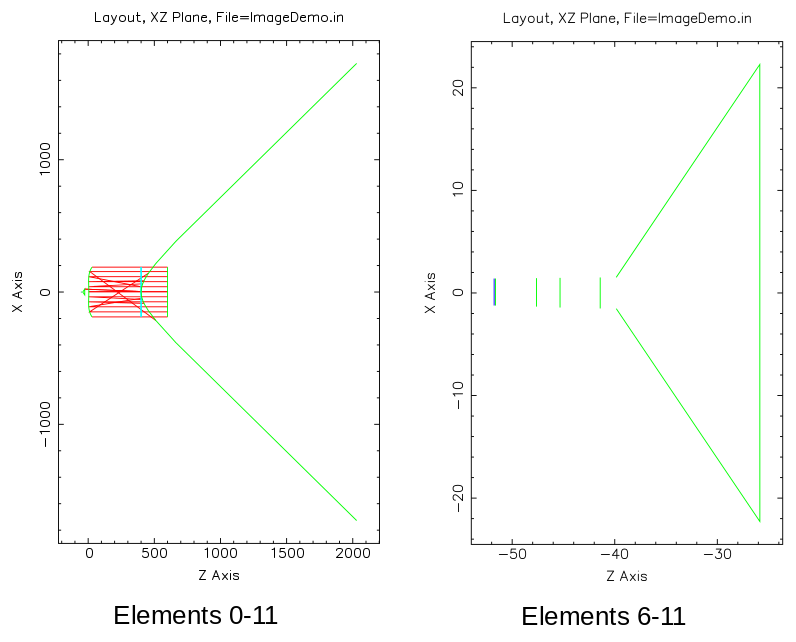
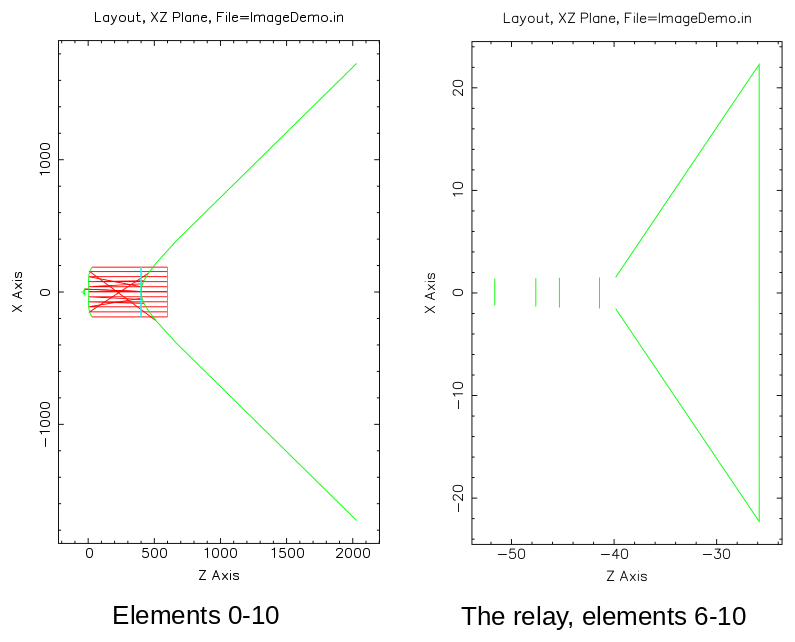
psiElt= kept as written when already unit to 64 ulp (the load-time re-unitize walked a 9e-17 component an ulp per SAVE generation on arm64: tSaveFixedPoint / test_save_fixed_point on CCMac's Mac gate; the OptBeamDir rule); manual: Dave's cover geometry (title high, the subtitle block low, Version 4.

diff --git a/docs/macos-manual/tools/regen_engine_figs.py b/docs/macos-manual/tools/regen_engine_figs.py
@@ -34,7 +34,7 @@ SPEC = {
                          "Focal plane spot diagram\n(primary mirror tilted 1e-4 radians)"]),
     6: ("fig06", [0, 1], ["Unaberrated (defocused)", "Aberrated OPD (coma)"]),
     10: ("fig10", [0, 1], ["Unaberrated (defocused)", "Aberrated (coma)"]),
-    31: ("fig31", [0, 1], ["Elements 0-11", "Elements 6-11"]),
+    31: ("fig31", [0, 1], ["Elements 0-10", "The relay, elements 6-10"]),
     33: ("fig33", [0], []), 34: ("fig33", [1], []),
     36: ("fig36", [0, 1], ["Exit pupil (element 4)", "Detector (element 5)"]),
     37: ("fig36", [2, 3], ["OBS=ALL", "OBS=NEGATIVE"]),
@@ -49,7 +49,7 @@ SPEC = {
     58: ("fig58", [2], []),
     60: ("fig60", [0, 1], ["Amplitude", "Phase"]),
     61: ("fig60", [2, 3], ["Real part", "Imaginary part"]),
-    62: ("fig60", [4], []), 63: ("fig60", [5], []), 64: ("fig60", [6], []),
+    62: ("fig47", [13], []), 63: ("fig60", [5], []), 64: ("fig60", [6], []),
 }
 FONT = "/usr/share/fonts/truetype/liberation/LiberationSans-Regular.ttf"
 

diff --git a/PLAN_CONSOLIDATION.md b/PLAN_CONSOLIDATION.md
@@ -103,6 +103,8 @@ carry the incidents).  They are the definition of done for every item below.
   (e) **DONE 2026-10-17 (TO, 42c7ade, gated at 72ea712) -- the ruling below was taken on the stale reading: TPR no longer reads `RayPosHist` at all; it prints the position CTRACE leaves at the end element (`TPR ray 63 at element 6: x y z`) on every deck, skips the slots RRAY leaves empty (it traced "ray 0" before) and names a ray lost en route; journal `RRAY_PRAY_TPR_FSR.jou` pins the numbers (they equal the pre-fix numbers WITH `SaveRayPosH= Y`).  Nothing left but the api entry (B.2 third set).  cmdref TPR/PRAy notes corrected 2026-10-19.** **RULED 2026-10-18 (Dave): LATER (plan): make TPR fill the history itself.  TPR has no api entry (B.2 third set); it is CLI-only today.** **TPR prints `RayPosHist`, which is filled only when the deck declares `SaveRayPosH= Y`** -- on any other deck every traced position prints 0 (and the loop also prints `iRay = 0` rows).  Document (cmdref TPR) or make TPR fill the history itself.  Journal `RRAY_PRAY_TPR_FSR.jou` pins the finders, not TPR's numbers.
   (g) **MRESET's scratch re-allocation FAILED on every model-size change** -- `CRWalk` / `CRWalkProjLoc` are allocated with the scratch set (macos.F at start-up, the MRESET branch of macos_cmd_loop.inc) but were absent from the MRESET deallocate, so the allocate statement failed as a whole ("MACOS: allocate failed!", non-fatal) and L1 / R1 / R2 / D2 / DWF ... kept the OLD size while mdttl grew: the model-size-transition heap hazard (memory `project_model_transition_crash`) has a CLI face.  FIXED 2026-10-16 (CC): the two arrays added to the deallocate; gate `cli_tests/cmd/MRESET.jou` (red on 6ccd86d).  Whether the bindings' `init` path (macos_init_all / macos_realloc) shares it is TO's to measure.
   (h) **`docs/macos-manual/examples/AOExample.in` loaded with warnings:** `UDSrfFile=` preceded `UDSrfParam=` ("Must specify UDSrfParam before loading UDSrfFile", the DM file not loaded at parse) and the ten `UDSrfParam` values were split over two lines, the second read as an `Unidentified string`.  FIXED in the deck 2026-10-16 (keys reordered, one line); the parser reads only the first SIX values (`ReadRealsWarn(VALUE, UDSrfParam(1:6,iElt), 6, ...)`) although `mUDSrfParam` is 10 -- a one-line deck is read in full for the six it uses; the 6-vs-10 question is TO's / the manual's UserDefined section.  Gate `cli_tests/cmd/UDSINIT.jou`.
+  (aa) **The WIRE plot type draws a near-empty sheet under giza (CC 2026-10-19, remaking the manual's figure 62): `WIRE` (pgplotsub.F) scales the array to the plot width and hands it to `FREDDY`, the 1980s PGPLOT hidden-line demo drawn with PGMOVE/PGDRAW; on the current build a 256-point intensity grid draws as one spike on a flat sheet and the 64 x 64 composed image as the sheet's outline with the mesh invisible (`fig_engine_62.png` shows what it draws).  Display lane, with (m) and the LSPOT item: either FREDDY's visibility logic under giza or the viewport (`PANEL_ENV(0,SIZE,0,SIZE,1,-2)`) -- measure with a 4 x 4 array first.  Not changed; the manual says the rendering is under review.**
+  (z) **The engine refuses a path + file name over 128 characters (`Path + FileName greater than max. permitted by MACOS (>128)`), found by CCMac's Mac gate 2026-10-19: macOS's pytest tmp_path is ~100 characters before the file name (test_zrngr_roundtrip, two tests).** A fixed-length name buffer somewhere in the file open path; the tests now stage under /tmp.  Lift the limit (the 130-character command line was lifted the same way, b90887e) or name the refusal in the api with the length.  Not changed.
   (y) **BEAM GAUSSIAN is not flux-normalized against UNIFORM (CC 2026-10-19, remaking figure 46 on CassWithExitPupil.in at the entrance pupil, 64-point grid):** `int 1` sums 0.906 with the uniform beam and 218.0 with a Gaussian of waist 1.0 (peak 3.3e-4 vs 0.60) -- the Gaussian amplitude is 1 at its center while the uniform beam carries the source flux spread over the rays.  Whether BEAM should scale to the source `Flux=` is a convention question for Dave; the manual's Section 6 BEAM example shows both sums as printed.  Not changed.
   (w) **ORS prints `TTL OPD= NaN` on the manual's own example (CC 2026-10-19, re-emitting Section 6: ImageDemo.in, `ors 12`, nCalls 26; the surface it accepts, f 68.75 -> 69.43, is sound and SRS 13 -> 12 then works):** `RSTRACE` (tracesub.F) forms the trial rms over the rays whose `LRayOK` was true BEFORE the trial intersection, so a ray the trial surface misses contributes an undefined length, and the 0/0 of a trial where only the chief ray passes is the other route; the Brent solve then compares NaNs.  Measure which, make the merit finite (skip the missed rays, name an empty trial), and the manual's ORS dialog loses its NaN line.  Not changed.
   (x) **DONE 2026-10-19: `GPERTURB.jou` loaded `$RES/pymacos/tests/Rx/Rx_e5hex1.in`, which was NOT in the committed tree -- the journal passed on Linux through an untracked file and failed on CCMac's clean Mac clone (a gate that depended on a file no clone has).**  The file (e5hex1 + the `EltGrp=` group) is committed (resources 5c9026f).  Lane rule: a journal's deck must be in `git ls-files` of its repo; `make_corpus.sh` lists only tracked decks for the same reason.
@@ -205,7 +207,7 @@ this plan); Dave rules the open questions below and signs off each phase.
 
 1. **SAVE policy** (from §1.1b): the `Opt*`/CALIB keys and the trace-state singles — deferred by Dave 2026-10-10, ask again when the SAVE round-trip next moves.  `OptTol=` (added 2026-10-11, §3.2) is the family's 26th key and follows it: parsed, not written.  **RULED 2026-10-18 (Dave): SAVE the CALIB settings, and have them transfer (loudly) across a break.  DONE the same day (CC, LOCAL):** `PrtCalibHeader` / `PrtCalibElt` (iosub.inc) write every Table 13 key whose value differs from its load default (header keys in the source block, element keys in their element's block; the reader's field / wavelength counting followed -- fields 2..n as `OptChfRayDir=/OptChfRayPos=` pairs, `OptFOVWt=` after them, `OptTgtElt=` only when not nElt-1, `VarCons=`/`OptAsph=` after `VarElt=`, beam keys at their element); `CalibInForceNote` prints one line at every LOAD that reads a setup (`LOAD: CALIB setup in force from the prescription: target SPOT at element 2, 1 field(s), 1 wavelength(s), 1 variable element(s), OptMaxItrs 10 -- VARS/FOVS/WLENS list them; SAVE writes them`), CLI and bindings.  The trace-state singles (`FEXCentroid`, `RayTgtElt`, the source local frame) stay deferred.  Gate `CALIB_save_roundtrip.jou` (tst_calib_mixed + opt_example_constrained: the saved keys, the notice, VARS after reload, re-save byte-identical; red on e2c93d0b both compilers); the load gate's round trip now covers every CALIB fixture; mmacos tSaveFixedPoint/tAsphCalib/tLinkSave/tSessionModes 9/9 and pymacos save/calib/modes/parse/sysprop 59/59 on the relinked bindings; api-surface twins `tRxLoadRulings1018` / `test_rx_load_rulings_1018` (resources e211fe4; rule 2) -- their CALIB leg found that the writer skipped `VarElt=` when every flag was zero and so dropped the `OptAsph=` the reader keys on it (Rx_AsphCalib / tst_calib_spot4): fixed in aad6400f, the journal gained the leg.  Manual §4 (Table 13 caption, the SAVE paragraph, the keyword bullet), cmdref SAVE/OLD notes, `SAVE_KEYWORD_AUDIT.md` updated.
 2. **Five CLI mode commands lose their setting at every LOAD, silently (TO's `*_init_vars` audit, 2026-10-11; first reported as eight, three reclassified on measurement -- IMGMODE's state `ifAstroMode` lives in `plot_mode_mod` and already SURVIVES a load; REGRID/NOREGRID set a per-ELEMENT flag, meaningful only in its deck; NOPLOC only clears what `WINDOW`, a loaded-deck command, sets):** POLARIZATION/NOPOLARIZATION, VECTOR/SCALAR, LNEG/NOLNEG, CENTROID/CHIEFRAY, CIR/GIR all work without a loaded deck, and `macos_mod_init_vars` resets them on every load (measured: `centroid` → `old e5hex1` → `fex 12` prints `CHIEF RAY (default)`).  The audit's method: 509 variables reset per load, 197 with another writer; all but these five are correctly per-load (computed trace state; Rx data the api edits for the loaded deck; CALIB scratch; modes whose command REQUIRES a deck — SZCO, SRT, BWK, GBS, LOS, BEAM, `zcoType`).  Options: (a) move the five to allocation (rule 6 as written: a mode survives loads until changed); (b) keep the reset, print one line when a load reverts a non-default mode; (c) the display mode (CIR/GIR) to allocation, the physics modes (POLARIZATION, VECTOR, CENTROID, LNEG) stay per-load with the line.  **CC recommends (a) plus one line at every LOAD naming the non-default modes in force** — Dave already ruled the OPD reference a session option that survives loads (OPDREF), and CENTROID/CHIEFRAY is its sibling (the FEX axis ruling of 2026-08-27); (c) would give two siblings two rules.  Gate under any ruling: one journal per mode (set, load, observe) -- WRITTEN 2026-10-11, `cli_tests/cmd/MODE_{polarization,scalar,centroid,nolneg,cir}.jou`, pinning today's reset and carrying the outcome-(a) EXPECT as a one-line swap; `STATUS` now prints the four flags it lacked (vector, centroid axis, LNEG, CIR).  TO's recommendation was (c) (a physics mode carried silently into an unrelated deck is the worse surprise); CC's notice-at-every-LOAD answers that within (a) as well -- TO concurs with (a)+notice.  **RULED 2026-10-11 (Dave: "Go on 2"): (a) + the LOAD notice** — the five modes (POLARIZATION, VECTOR/SCALAR, LNEG, CENTROID, CIR) move to allocation and survive loads until changed; every LOAD prints one line naming the non-default modes in force.  TO's item after the `NSRefractor` grid frame; the five `MODE_*.jou` journals flip their EXPECT to outcome (a).  **Extension to the BINDINGS (CC's ruling 2026-10-11, flagged for Dave):** the move broke one binding test (`tTgPol/test_detector_registration_between_arms`: an earlier test's `polarization('on')` now survives `load_rx`, the crossed pair passes no light, centroid 0/0) — the bindings had relied on the load resetting the modes.  Two options: the api's `load_rx` resets the five before loading (the bindings keep a fresh-deck contract; the CLI's LOAD keeps the modes) — or persistence everywhere.  **Ruled: persistence everywhere, on Dave's own §1.4a/b rule (one semantics set in the engine, the veneers inherit it; a default restated in one front end is "the history as the warning") — with the notice in the form a script sees:** api `modes_get`, and the veneers' `load_rx` emits a WARNING (`mmacos:modesInForce` / Python `RuntimeWarning`) naming the modes in force; `tTgPol` sets its own mode (the one latent reliance in 626 + 45 tests).  Dave may override to the reset form (a two-line change in `load_rx`; the getter and the warning stay).  **DONE 2026-10-11 (TO, macos 5792b71 / res 9800b8e; Dave: "let's try it like this for now"):** the five flags set in `macos_mod_init`, the per-load and LOAD-handler resets gone, `ModesGet` feeds both the LOAD notice and api `modes_get`; `load_rx` warns (`mmacos:modesInForce` / `RuntimeWarning`); `macos.modes` / `Session.modes` / `pymacos.modes()`; the CLI RESET's `ifCentroid=.TRUE.` (a sixth site the 2026-08-27 ruling missed) now `.FALSE.`; TWO latent reliances fixed (`tTgPol`, `tTgPol2` each set their own mode); gates `tSessionModes` + `test_session_modes.py`, the six `MODE_*.jou` green / red on b320afd; fast 630/0; CC gate 114/114 both compilers, cmd 46/46, ab 0 movers.  §3.3 is now COMPLETE.  **DONE 2026-10-11 (TO):** moved to `macos_mod_init`; the LOAD handler's resets removed; `ModesInForceNote` prints `LOAD: session modes in force: POLARIZATION, VECTOR, CENTROID, NOLNEG, CIR` (only the non-default ones; nothing otherwise) at every load, CLI and bindings; the five MODE journals flipped to outcome (a) + `MODE_load_notice.jou` (all six red on the pre-change binary, green on both compilers); the CLI `RESET`'s `ifCentroid=.TRUE.` (a sixth site the 2026-08-27 ruling missed) is now `.FALSE.`; cmdref entries carry the session-mode note.  **Bindings (CC's extension of (a) on Dave's one-semantics rule, flagged for override):** the modes persist across `load_rx` too; api `modes_get` (from `ModesGet`, the notice's own source), mmacos `load_rx` warns `mmacos:modesInForce` / pymacos `load` a RuntimeWarning when any is in force, `macos.modes` / `pymacos.modes`; gates `tSessionModes` + `test_session_modes.py`; the two latent reliances (`tTgPol`'s and `tTgPol2`'s scalar `detGeom` after a polarized test) now set polarization off themselves.
-4. **Cross-architecture numeric pins (from CCMac's Mac gate, 2026-10-19):** 21 journal EXPECTs, 15 mmacos and 8 pymacos assertions pin trailing digits of near-zero quantities (collimated RMS ~1e-12, OPD averages ~1e-15, 1e-9..1e-15 tolerances) that arm64 round-off moves while every real signal agrees to 8-9 digits.  Options: (a) key the pins by relative tolerance / the digits both architectures share (CC's recommendation: a pin on a numerical zero is not a measurement); (b) a per-architecture allow list in the records; (c) accept a Mac-only count.  Dave's call before the Mac line can be green.  **RULED 2026-10-19 (Dave, with CCMac's shared-digit census of the 235 differing cells: 113 near-zero cells share 0-4 digits, 122 real-signal cells share 8 or more with a 5-7 band): pin to the digits both architectures share -- (1) a numerical zero (|v| < 1e-9: collimated-system RMS, OPD averages, the ~1e-11 positions) is bounded in magnitude, never pinned to a value; (2) a real-signal value is pinned to 5 significant figures; (3) the knife-edge ray counts (tst_FF_refr, tst_cmds_refr, Grating_example_001) stay recorded, not pinned.  JOURNALS DONE the same day (CC, 43 patterns in the 21 journals CCMac named, green on ifx and gfortran); the 15 mmacos + 8 pymacos assertions wait on CCMac's per-assertion actual-vs-expected (several are not numeric pins: a note count, refusal messages, iteration counts, byte-identical SAVE generations -- those need their failure text before they can be re-pinned without guessing).**
+4. **Cross-architecture numeric pins (from CCMac's Mac gate, 2026-10-19):** 21 journal EXPECTs, 15 mmacos and 8 pymacos assertions pin trailing digits of near-zero quantities (collimated RMS ~1e-12, OPD averages ~1e-15, 1e-9..1e-15 tolerances) that arm64 round-off moves while every real signal agrees to 8-9 digits.  Options: (a) key the pins by relative tolerance / the digits both architectures share (CC's recommendation: a pin on a numerical zero is not a measurement); (b) a per-architecture allow list in the records; (c) accept a Mac-only count.  Dave's call before the Mac line can be green.  **RULED 2026-10-19 (Dave, with CCMac's shared-digit census of the 235 differing cells: 113 near-zero cells share 0-4 digits, 122 real-signal cells share 8 or more with a 5-7 band): pin to the digits both architectures share -- (1) a numerical zero (|v| < 1e-9: collimated-system RMS, OPD averages, the ~1e-11 positions) is bounded in magnitude, never pinned to a value; (2) a real-signal value is pinned to 5 significant figures; (3) the knife-edge ray counts (tst_FF_refr, tst_cmds_refr, Grating_example_001) stay recorded, not pinned.  JOURNALS DONE the same day (CC, 43 patterns in the 21 journals CCMac named, green on ifx and gfortran); the 15 mmacos + 8 pymacos assertions wait on CCMac's per-assertion actual-vs-expected (several are not numeric pins: a note count, refusal messages, iteration counts, byte-identical SAVE generations -- those need their failure text before they can be re-pinned without guessing).  BINDINGS DONE where the data allowed (CC, the same night, CCMac's classification of the 23): rule-1 bounds tSrt / test_srt (1e-11 on-axis coordinates: AbsTol 1e-9, RelTol 1e-5), tDefaults / test_defaults opd_reference (the -2.5e-12 constant: |mean| < 1e-9), tOpdRef's chief-path count (|W| < 1e-18, not == 0), tTmaLongslit's record chief angle and FWHM (1e-5); rule-2 five figures tDwDx (RelTol 1e-4), tTmaLongslit rms, pole-frame residual 1e-7; a few-ulp dead band on tPolElement's twin OPD.  Harness: the three nested `matlab -batch` launches (tRxRefuse, tRxShortCoef, tRxLineEndings) pass MACOS_HOME explicitly (`tests/private/macos_home_.m`; a system() from MATLAB on macOS drops the parent environment); test_zrngr_roundtrip stages under /tmp (1.2 (z)).  Engine: the load-time psiElt unitize gained the 64-ulp dead band (the SAVE generations walked a 9e-17 component on arm64: tSaveFixedPoint / test_save_fixed_point -- the OptBeamDir rule of dfc2b476).  OPEN, case decisions (Dave / TO): (i) tCalibMatrix / test_calib_matrix mixed_SPOT -- the near-singular SPOT cell converges to tilt 1.6e-5 on arm64 against the 1e-8 margin (a convergence-margin or exclusion call); (ii) tCalibStop -- arm64's LM takes a different iteration count and stop reason; (iii) tCalibMatrix trial_loses_chief -- the trial step does not lose the chief on arm64 (the fixture's margin); (iv) test_spot_centre_default -- the second spot component flips sign (6305 vs -5939: an unstable near-zero denominator in the centre shift, not round-off; the assertion needs a rethink); (v) test_rx_parse_warnings on macOS -- capfd reads an EMPTY engine stdout (the Fortran runtime's buffering under file-descriptor capture, a Mac harness item for CCMac: try an explicit flush or `-s`).**
 3. **Mac as a release platform in phase 4** (CC's recommendation 2026-10-10): the Darwin build arms are applied and CCMac has run the engine + mmacos on Apple Silicon daily since September (the IRIS INT-saturation crash was ARM-found); not done: pymacos on Mac, Giza/XQuartz display, and any release-gate run on a clean Mac clone (build + fast suite + `cli_tests load`); `MAC_PORT.md` still says "nothing validated".  Phase 4 (CCMac runs the gate, rewrites `MAC_PORT.md` as the record) or best-effort after — Dave's call.  **2026-10-18: Dave asked for the CCMac brief now -- `BRIEF_ccmac_prerelease.md` (the Mac release checks + the MAC_PORT.md rewrite, run at the SHA CC names after each gate; the Linux clean-clone sweep and the Windows smoke stay CC's).  REPORT RECEIVED 2026-10-19 (pair macos 22750d4b + resources e211fe4, clean clone, gfortran 16.1 + Apple clang 21, arm64): no engine-source defect; load 160/160 (2 edge-ray decks differ: tst_FF_refr 51 vs 60 rays, tst_cmds_refr 56 vs 60 -- the Grating_example class); cmd 70/102 (6 pty-wrap from the long macOS $TMPDIR, 2 harness, 21 numeric pins at near-zero digits); mmacos 645/15 and pymacos 6935/8, all arm64 round-off against Linux-minted exact pins; /png and /xw render (1.2 (t) not exercised by the plots tried); self-containment: 4 hidden-dependency notes; MAC_PORT.md rewritten + `cli_tests/records/mac_gate_gfortran_22750d4.md` (CCMac's 985913a makems.sh Darwin guard, b9b459b; on the Mac, unpushed).  CC's follow-ups DONE the same day: the gate's scratch dir is `/tmp` (the pty wrap), OBS_POLYGON's `sed -i.bak` (GNU and BSD), the untracked GPERTURB fixture committed (1.2 (x)).  OPEN for Dave (section 4 item 4): the cross-architecture policy for the 21 + 15 + 8 numeric pins.**
 
 ## 4a. Rulings taken so far

diff --git a/docs/macos-manual/src/01_introduction.md b/docs/macos-manual/src/01_introduction.md
@@ -4,17 +4,17 @@ This section introduces the features of MACOS and gives an overview of the manua
 
 ### Modeling and Analysis for Controlled Optical Systems
 
-The Modeling and Analysis for Controlled Optical Systems software provides tools for modeling and analyzing optical systems. It consists of a stand-alone application pro-gram called MACOS and a Fortran subroutine package called SMACOS. SMACOS provides the full functionality of the MACOS application in a form that can be directly integrated with other codes.
+The Modeling and Analysis for Controlled Optical Systems software provides tools for modeling and analyzing optical systems. It consists of a stand-alone application program called MACOS and a Fortran subroutine package called SMACOS. SMACOS provides the full functionality of the MACOS application in a form that can be directly integrated with other codes.
 
-MACOS is an optical analysis and model generation program, as opposed to an optical design program. It is focused on generating and exercising fast, accurate, and detailed models combining ray-trace, differential ray-trace, and diffraction techniques. It does not include extensive internal optimization functions or other features to support the optical designer.
+MACOS is an optical analysis and model generation program, focused on generating and exercising fast, accurate, and detailed models combining ray-trace, differential ray-trace, and diffraction techniques. It is not intended as a replacement for a traditional optical design code, though it does include optimization features that can be used for design.
 
-MACOS does provide unique modeling capability for *system-level* design and analysis tasks, however. Capabilities include modeling optics on dynamic structures, deformable optics, and controlled optics. These models are easily integrated with standard structures, controls, and user written analysis tools to create an end-to-end system model.
+MACOS provides unique modeling capability for *system-level* design and analysis tasks. SMACOS functions can be directly integrated into simulation programs, to provide optical outputs driven by structural and/or thermal dynamics, feedback controls, atmospheric effects, or other system perturbations -- the GMI Matlab MEX function provides an example of how to do this using the SMACOS API. More commonly, MACOS is used to generate Linear Optical Models, either directly in MACOS, or driving SMACOS from Matlab or Python. This release provides *mmacos* and *pymacos*, providing utilities and runners to generate LOMs, as well as telescope design templates and other useful functions. MACOS LOMs are easily integrated with standard structures, controls, and user written analysis tools to create end-to-end system models.
 
 MACOS is commonly used in conjunction with a design code such as CodeV. The design code produces an initial optical prescription, which is converted into a MACOS prescription. Further features are added in MACOS, including mechanical and control system interfaces, optical figure aberrations, segmented mirrors, actuated mirrors, deformable mirrors, and reference and return surfaces for diffraction calculations. Using MACOS linear optical models (or SMACOS subroutines), models can be integrated with structures, dynamics, and control codes. These models are exercised in end-to-end dynamic simulations, Monte Carlo analyses, covariance analyses, or optimization studies to determine integrated system-level performance.
 
-MACOS (and SMACOS) provide computationally efficient general ray-trace capabili-ties. These support standard analyses of optical performance such as ray-traces, spot-diagrams, and wavefront (OPD) plots. They also support MACOS diffraction calcula-tions.
+MACOS (and SMACOS) provide computationally efficient general ray-trace capabilities. These support standard analyses of optical performance such as ray-traces, spot-diagrams, and wavefront (OPD) plots. They also support MACOS diffraction calculations.
 
-MACOS has a differential ray-trace capability which generates linear matrix models of optical systems. These models are accurate for systems that undergo only small pertur-bations and are essential for tasks such as covariance analysis and control design. Mod-els can be exported to linear analysis programs such as Matlab where they can be exercised alone or in combination with structural, thermal, and control models.
+MACOS has a differential ray-trace capability which generates linear matrix models of optical systems. These models are accurate for systems that undergo only small perturbations and are essential for tasks such as covariance analysis and control design. Models can be exported to linear analysis programs such as Matlab where they can be exercised alone or in combination with structural, thermal, and control models.
 
 For diffraction calculations, MACOS uses Fresnel propagators driven by exact phases computed by its ray-trace engine. Simulated images (point-spread functions) can be generated using single- or multi-plane diffraction. MACOS supports simulation of multiple source and wavelength images. Detector pixilation can be set to model detector resolution limits.
 
@@ -46,6 +46,10 @@ This manual is the *learning* document; its companion, the **MACOS Command Refer
 
 Two companion tools are worth knowing from the outset. **SegMirMaker** (`MACOS_resources/segmirmaker/`) converts a monolithic primary mirror into a many-segment one, generating the segmented-mirror prescription and segment-influence files from a parent-mirror description (see §4.4.11). **GMI** (`MACOS_resources/GMI/`) is a MATLAB MEX front end built directly on the SMACOS subroutine interface — both a complete forward simulator and the reference example of a real SMACOS application (see Section 9).
 
+### MACOS and AI Agents
+
+MACOS is increasingly driven by AI coding agents as well as by people, and the parts of the system an agent uses are the documented ones: the interactive program, which an agent runs on a pseudo-terminal and feeds command by command exactly as a user types them (the command-line test suite in `cli_tests/` is built that way, one journal of commands and expected output per command); the MATLAB and Python bindings (`mmacos`, `pymacos`), whose functions are the programmatic surface; and the Command Reference, which states every command's syntax, prompts and defaults and is the authority when prose and transcript disagree. Appendix D collects what an agent needs to drive MACOS reliably: where the facts live, how to run and read the program, the conventions that trip newcomers, and the working rules the project holds its own agents to. The repositories also carry agent-facing notes beside the code (`CLAUDE.md` at the top of each repository and in each subsystem directory), which are maintained with the code and are part of the release.
+
 ### New Features of Version 4.00
 
 MACOS 4.00 (April 2026) is a feature release built on the Fortran 90 / SMACOS infrastructure introduced in v3.2. It adds a new general-purpose composite surface (FreeForm), adds multiple different forms of Zernike polynomials describing for optical surfaces, modernizes the graphics layer, expands the SMACOS / GMI MATLAB interface, and adds new utility commands plus a separate segmented-mirror prescription generator.
@@ -75,33 +79,3 @@ A summary of changes since MACOS 3.2:
 -   Design-optimization keyword reference.  The `Opt*` / `VarElt=` prescription keywords that set up CALib are tabulated with their defaults in Section 4 (Table 13), together with the solver's stopping rule.
 
 -   HELP command rebuilt. All \~140 dispatched commands are now listed (vs. \~75 in v3.2), grouped into 15 categories with one-line effect descriptions and prerequisite tags (\[Rx\] / \[BLD\] / \[DIFF\]). See §3.2 and Appendix C.
-
-### New Features of Version 3.2 (historical)
-
--   Interpolated data surfaces using general X-Y-Z data are once again supported
-
--   Interpolated data surfaces using square X-Y grids have been added
-
--   Influence function-based surfaces are provided as a "user-defined" surface
-
--   Transmissive and reflective straight-ruled gratings were added
-
--   "Flower" segmentation was added
-
--   A gaussian blur function was added for simulating image jitter and other noise effects
-
--   SMACOS call line arguments were changed
-
--   OPMmat and RaySpot variables were changed to double precision
-
-### Changes since MACOS 2.8 (historical)
-
-MACOS 3.2 Beta Version (3.2b) is a **Fortran 90 version** of MACOS, developed using MACOS 2.86 as the baseline. From a user's point of view, the most important improvement in MACOS 3.2b is its ability to support runtime specification of the MACOS model size in both interactive mode and in subroutine MACOS (SMACOS). The usage of this feature is described in [Section ?](#macos-model-size-specification) for the interactive mode and in [Section ?](#specification-of-model-size-in-smacos) for SMACOS. Taking advantage of the Fortran 90 compiler's strong type-checking, a number of type mismatches between calling and called subroutines in MACOS have been fixed. MACOS 3.2b has been tested on several optical system simulations for space telescope wavefront sensing and control.
-
-MACOS 3.2b retains all improvements that MACOS 2.8 made over earlier versions of MACOS. For users familiar with MACOS before version 2.8, version 2.8 brings some improvements and some changes. New features include additional surface types, additional element types, a new segmentation option, and glass tables. Full backward compatibility with existing MACOS prescriptions and journal files has been preserved.
-
-MACOS 2.8 made some changes in its interface to SMACOS functions. These include a changed SMACOS argument list; also some important arguments and internal arrays, such as OPMmat, are now REAL\*8 rather than REAL\*4 variables. In addition to these changes, a user program calling SMACOS in MACOS 3.2b needs to include relevant Fortran 90 modules instead of Fortran 77 common block files as a way of communicating with SMACOS. Programs calling SMACOS should be examined to ensure compatibility with Version 3.2.
-
-A summary of changes since MACOS 2.8:
-
--   Toroid surface type was added

diff --git a/docs/macos-manual/src/94_appendix_d_ai_agents.md b/docs/macos-manual/src/94_appendix_d_ai_agents.md
@@ -1,0 +1,39 @@
+## APPENDIX D: Working with AI Agents
+
+This appendix is written for an AI agent that is asked to run, extend or document MACOS, and for the person who sets one to work. It says where the authoritative facts are, how to drive the program so that its answers can be trusted, which conventions bite, and the rules this project holds its own agents to. Nothing here is specific to one agent product.
+
+### Where the facts live
+
+-   **The Command Reference** (`docs/macos-manual/cmdref/`, rendered as macosCmdRef) is the authority on every command: its minimum abbreviation, its syntax, its prompts and their defaults, its binding in MATLAB and Python, and the journal in the test suite that exercises it. When this manual's prose and a transcript disagree, the transcript made on the current build wins, and the Command Reference is updated from it.
+-   **This manual** explains the models: the prescription language of Section 4 (Table 13 is the design-optimization keyword reference), the ray-trace, diffraction, imaging and linear-model commands of Sections 5 to 8, SMACOS in Section 9, worked examples in Section 10, polarization in Section 11. The example prescriptions of Appendix A are in `docs/macos-manual/examples/` and load as printed.
+-   **The notes beside the code.** `CLAUDE.md` at the top of each repository, and in `macos_f90/`, `macos_f90/giza/`, `macos_f90/slsqp/` and `MACOS_resources/pymacos/`, record the engine's conventions and the defects that were closed, each with the test that pins it; `macos_f90/notes/` holds the engine record by topic. They are maintained with the code and are the first thing to read before changing it.
+-   **The test suite is the specification.** `cli_tests/` runs the interactive program on every prescription in the repositories (the load gate) and one journal per command (the command gate), on both compilers; `MACOS_resources/mmacos/tests/` and `pymacos/tests/` are the binding suites. A behaviour that no test pins is not yet a promise.
+
+### Driving the program
+
+-   Run the interactive program on a pseudo-terminal with `TERM=dumb`; under a real terminal type the line editor turns on bracketed paste and prefixes every line with an escape sequence. Send one line per prompt. A prompt ends in `MACOS>`, in `]:` (a default in brackets) or in `?`; the next line answers it, and a line that happens to be a command name is read as the answer, not as a command.
+-   The first prompt asks the model size (the largest ray grid the session will hold: 128, 256, 512, 1024, 2048). A prescription whose `nGridpts` exceeds it is clamped with a message; a diffraction grid is four times the ray grid, and the coronagraph example of Section 7 wants 512.
+-   A journal (`cli_tests/cmd/*.jou`) is the reproducible form of a run: the lines sent, with `# EXPECT:` regular expressions the transcript must match and `# EXPECT-NOT:` ones it must not, written from a transcript on the current build, never from prose. `cli_tests/README.md` is the recipe, including the shell-escape and plot-device quirks.
+-   Every number an agent reports comes from a run on the build it names, with the prescription and the commands that produced it. The engine prints its OPD reference (chief ray or aperture mean), its ray-loss counts by cause and element, and its propagation summaries; read them.
+-   SAVE writes the prescription as loaded and modified; a saved prescription reloads to the same trace, and a second SAVE is byte-identical. Use the round trip to check that a change to a prescription means what was intended.
+
+### Conventions that bite
+
+-   `KrElt=` carries the sign of the vertex radius with a mirror's concave side facing the incoming beam negative; `KcElt=` is the conic constant; `psiElt=` points against the incoming beam on a reflector and along it on a focal plane or reference surface. The output-coordinate block (`nOutCord=`, `Tout=`) ends a prescription; when it is absent the program proposes the beam frame at the last element and asks.
+-   A ray trace never changes the prescription; a trace reads it and writes trace state. The design-optimization keywords of Table 13 are prescription state, written by SAVE and announced at load.
+-   Session options (POLARIZATION, VECTOR, CENTROID, LNEG, CIR, the OPD reference) survive loads; the bindings report them at every load.
+-   The OPD map's zero is not "no ray": a valid ray at the chief ray's path reads exactly 0. Validity is the mask the engine keeps (`opd_mask` in the bindings), not a test on the value.
+-   A numerical zero (a collimated system's RMS near 1e-12, an on-axis coordinate near 1e-11) has no shared digits across machines or architectures. Pin a real-signal value to five significant figures; bound a numerical zero in magnitude; never pin its digits.
+-   Masks for diffraction are `Element= Obscuring`; a Reference surface with obscurations clips rays only. Reference and Return surfaces are passive: they are read, never traced through.
+
+### Working rules
+
+1.  Every fix ships with a test, and the test has a leg that fails on the build before the fix. A test that cannot fail measures nothing.
+2.  Measure before you guard. Before adding a check, find the value's other writers; a refusal added at parse time once broke two hundred tests because the clamp already existed downstream.
+3.  Guards warn and count; they do not refuse behaviour a long-standing tool tolerated. A new refusal needs the maintainer's decision.
+4.  A change that can move a trace runs the whole corpus on the old and the new build before it is committed, and every prescription that moved is named and explained.
+5.  Read the frame before calling a mismatch: angles and lengths depend on the coordinate frame they are quoted in.
+6.  Look at the raw per-ray data before blaming a solver: a histogram of the per-ray OPD finds a wrong conic sheet that an outlier cut hides.
+7.  An "exact" replica of a kernel that passes a test can hide a broken kernel; diff the engine's own intermediate quantity instead.
+8.  Write the resolution of an oddity where the next reader will find it, at the time it is resolved.
+9.  Report outcomes faithfully: if a test fails, say so with its output; if a step was skipped, say that; a number comes from a run, not from memory.

diff --git a/NOTE_to_ccmac_prerelease_reply.md b/NOTE_to_ccmac_prerelease_reply.md
@@ -47,3 +47,29 @@ one; a SAVE generation that differs by an ulp on arm64 is a different question f
 (the fixed-point test exists to catch a walk, so it may need a numeric compare rather than a byte one).
 
 Next pair after Dave's next push; it will carry the journal re-pins.
+
+---
+
+## v3 (CC, 2026-10-19 late) — your classification, acted on
+
+Thank you; the actual-vs-expected lines settled 18 of the 23 in one pass (in the next push):
+
+- **Rule 1 (bounds):** tSrt / test_srt (AbsTol 1e-9, RelTol 1e-5), tDefaults / test_defaults opd_reference
+  (|mean| < 1e-9), tOpdRef's chief-path count (|W| < 1e-18 instead of == 0), tTmaLongslit's record chief
+  angle and FWHM (1e-5).
+- **Rule 2 (five figures):** tDwDx (RelTol 1e-4), tTmaLongslit rms (1e-5) and the pole-frame residual (1e-7).
+- **Dead band:** tPolElement's twin OPD (AbsTol 1e-15); and the ENGINE: the load-time psiElt unitize now keeps
+  a vector already unit to 64 ulp (your 9e-17 component walked because every load re-unitized it) — the
+  same rule as the OptBeamDir fix. tSaveFixedPoint / test_save_fixed_point stay byte-for-byte; they should
+  go green on the next pair. If a generation still moves, send the line and I widen the band.
+- **Harness:** the three nested `matlab -batch` launches pass `MACOS_HOME=...` on their command line
+  (`tests/private/macos_home_.m`: the parent's, or `macos/macos_f90` beside the checkout); test_zrngr_roundtrip
+  stages its decks under /tmp. The 128-character path limit is recorded as a finding (1.2 (z)).
+
+**Not acted on, recorded for Dave / TO as case decisions:** the mixed_SPOT CALIB cell (1.6e-5 vs 1e-8),
+tCalibStop's iteration count and stop reason, the trial that does not lose the chief on arm64, the
+spot-centre sign flip. And one for you: test_rx_parse_warnings reads an empty engine stdout under capfd
+on macOS — the Fortran runtime's buffering under fd capture, most likely; `pytest -s` or an explicit
+flush on the engine side would tell. Not a tolerance.
+
+Next pair: after Dave's next push, with the SHAs here.

diff --git a/docs/macos-manual/src/00_frontmatter.md b/docs/macos-manual/src/00_frontmatter.md
@@ -2,27 +2,21 @@
 MACOS Manual
 :::
 
+```{=openxml}
+<w:p><w:pPr><w:spacing w:before="6600" w:after="0"/></w:pPr></w:p>
+```
+
 ::: {custom-style="Subtitle"}
 Modeling and Analysis for Controlled Optical Systems
 :::
 
 ::: {custom-style="Subtitle"}
-Version 4.2 (beta) --- October 2026
+Version 4.0 (beta) --- October 2026
 :::
 
 ::: {custom-style="Subtitle"}
 Jet Propulsion Laboratory, California Institute of Technology
 :::
-
-\newpage
-
-::: {custom-style="TOC Heading"}
-Contents
-:::
-
-```{=openxml}
-<w:p><w:r><w:fldChar w:fldCharType="begin"/></w:r><w:r><w:instrText xml:space="preserve"> TOC \o "1-3" \h \z \u </w:instrText></w:r><w:r><w:fldChar w:fldCharType="separate"/></w:r><w:r><w:t>(contents -- update the field)</w:t></w:r><w:r><w:fldChar w:fldCharType="end"/></w:r></w:p>
-```
 
 \newpage
 
@@ -58,3 +52,13 @@ MACOS is distributed as two git repositories on GitHub: the engine and this manu
     source ./makems.sh release gfortran   # the same with gfortran (the build the MATLAB interface links)
 
 `makems.sh` builds the engine library and the interactive program into `build_release[_gfortran]/bin/macos`; `makeall.sh` adds the SMACOS driver and the GMI MATLAB interface. The requirements (CMake, a Fortran compiler -- Intel ifx or gfortran -- and gcc), the Linux, macOS and Windows notes and the debug builds are in `BUILD.md` at the top of the `macos` repository; the branch model is in `BRANCHES.md`. The MATLAB interface (`MACOS_resources/mmacos`, built by its `run_mmacos_tests.sh`) and the Python package (`MACOS_resources/pymacos`) each carry their own README. Access to the repositories is by invitation; write to the contact above.
+
+\newpage
+
+::: {custom-style="TOC Heading"}
+Contents
+:::
+
+```{=openxml}
+<w:p><w:r><w:fldChar w:fldCharType="begin"/></w:r><w:r><w:instrText xml:space="preserve"> TOC \o "1-3" \h \z \u </w:instrText></w:r><w:r><w:fldChar w:fldCharType="separate"/></w:r><w:r><w:t>(contents -- update the field)</w:t></w:r><w:r><w:fldChar w:fldCharType="end"/></w:r></w:p>
+```

diff --git a/docs/macos-manual/src/07_beam_propagation_imaging.md b/docs/macos-manual/src/07_beam_propagation_imaging.md
@@ -485,13 +485,9 @@ MACOS\>**wire**
 
      Plot type set to WIRE
 
-MACOS\>**int 6**
+MACOS\>**dad**
 
-    Enter number of element where data is to be generated: [6]: 6
-    ...
-    Peak intensity= 1.1041365D+08; Peak occurs at i=  129, j=  129
-
-(CassWithExitPupil.in at the detector, IMGMODE CONV; Figure 62.)
+Figure 62 is the coronagraph's composed detector image of Figure 55 (64 x 64 pixels) redrawn under the WIRE plot type as the current build draws it. The WIRE renderer is the hidden-line wireframe inherited from PGPLOT; under the built-in graphics it draws the sheet's outline with the mesh all but invisible, and a 256-point intensity grid draws as a single spike. Its rendering is under review (the plan's display items); use SLIce (Figure 57) for a surface view in the meantime.
 
 #### SLICE
 

diff --git a/docs/macos-manual/src/03_user_interface.md b/docs/macos-manual/src/03_user_interface.md
@@ -215,7 +215,9 @@ Generating the data for off-line display is as simple as selecting a file output
 
 MACOS\>**binary**
 
-    Plot type set to BINARY MACOS>intensity
+    Plot type set to BINARY
+
+MACOS\>**intensity**
     Enter number of element where data is to be generated: [9]: 9
     Tracing 3210 rays and propagating 16384 grid points... Scalar FF Prop between Elt 8 and Elt 9 to WF 1:
     z1=-9.1481D+01 dx1= 1.0581D-01 min= 1.0581D-01 max= 1.0581D-01 dev= 2.6446D-06 lin=100.00%
